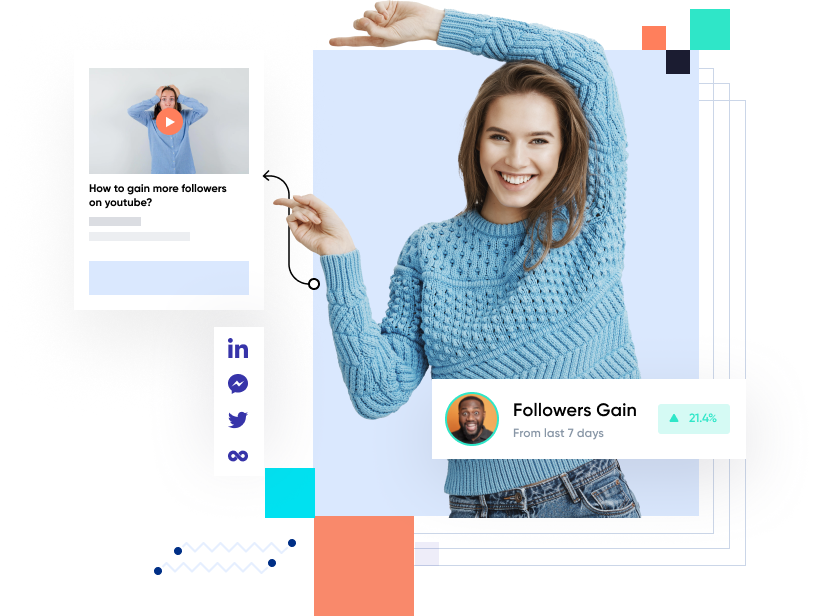
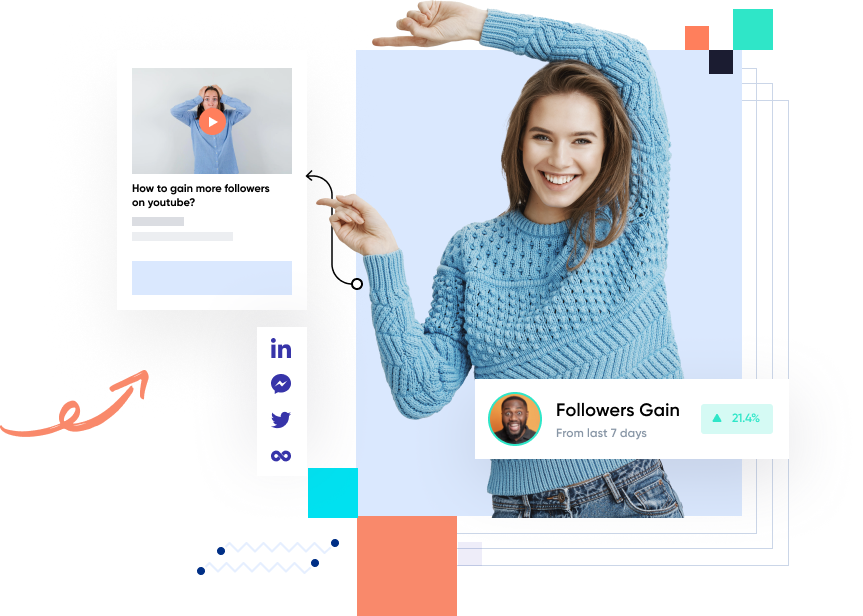
little adjustment on the header section

diff --git a/src/container/Header/Header.jsx b/src/container/Header/Header.jsx
@@ -5,10 +5,12 @@ import "./Header.scss";
 const Header = () => (
   <div className="arshakir__header section__padding">
     <div className="arshakir__header-content">
-      <h1 className="heading__text">Increase your followers on social media</h1>
+      <h1 className="heading__text">
+        Increase your <br /> followers on <br /> social media
+      </h1>
       <p>
-        Yet bed any for travelling assistance indulgence unpleasing. Not
-        thoughts all exercise blessing. Indulgence way everything joy alteration
+        Yet bed any for travelling assistance indulgence unpleasing. <br /> Not
+        thoughts all exercise blessing. Indulgence way <br /> everything joy alteration
         boisterous the attachment.
       </p>
 
@@ -22,8 +24,8 @@ const Header = () => (
       <div className="arshakir__header-content__people">
         <img src={people} />
         <p>
-          12,000+ people already joined the arshakir&apos;s <br /> increase followers
-          plan. Get started today!
+          12,000+ people already joined the arshakir&apos;s <br /> increase
+          followers plan. Get started today!
         </p>
       </div>
     </div>

diff --git a/src/container/Header/Header.scss b/src/container/Header/Header.scss
@@ -11,12 +11,11 @@
 }
 
 .arshakir__header-content {
-  flex: 0.6;
+  flex: 0.7;
   display: flex;
   justify-content: center;
   align-items: flex-start;
   flex-direction: column;
-  margin-right: 5rem;
 
   h1 {
     font-family: var(--font-family);
@@ -142,7 +141,7 @@
 }
 
 .arshakir__header-image {
-  flex: 1;
+  flex: 1.2;
   display: flex;
   justify-content: center;
   align-items: center;
